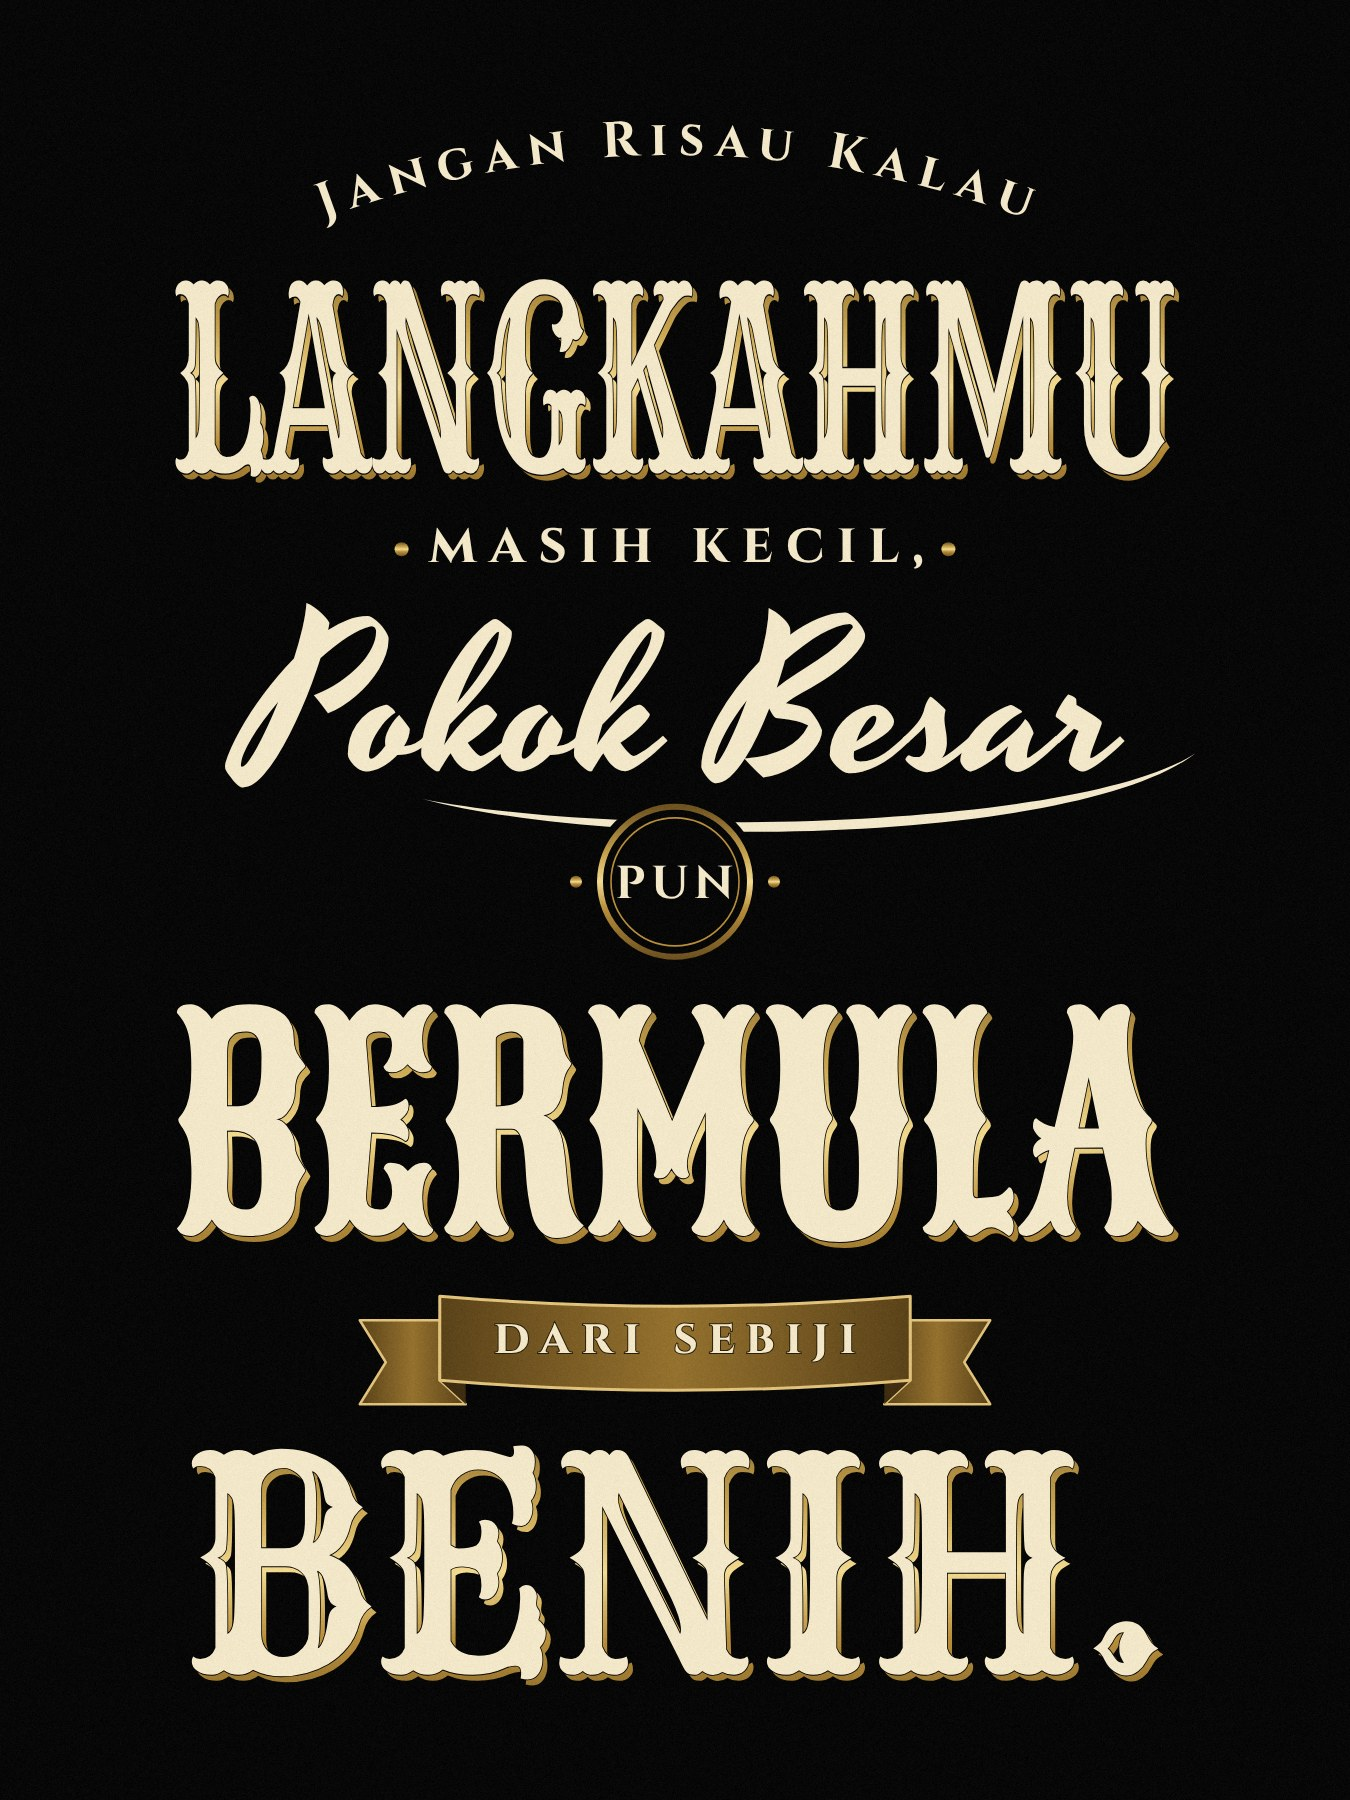
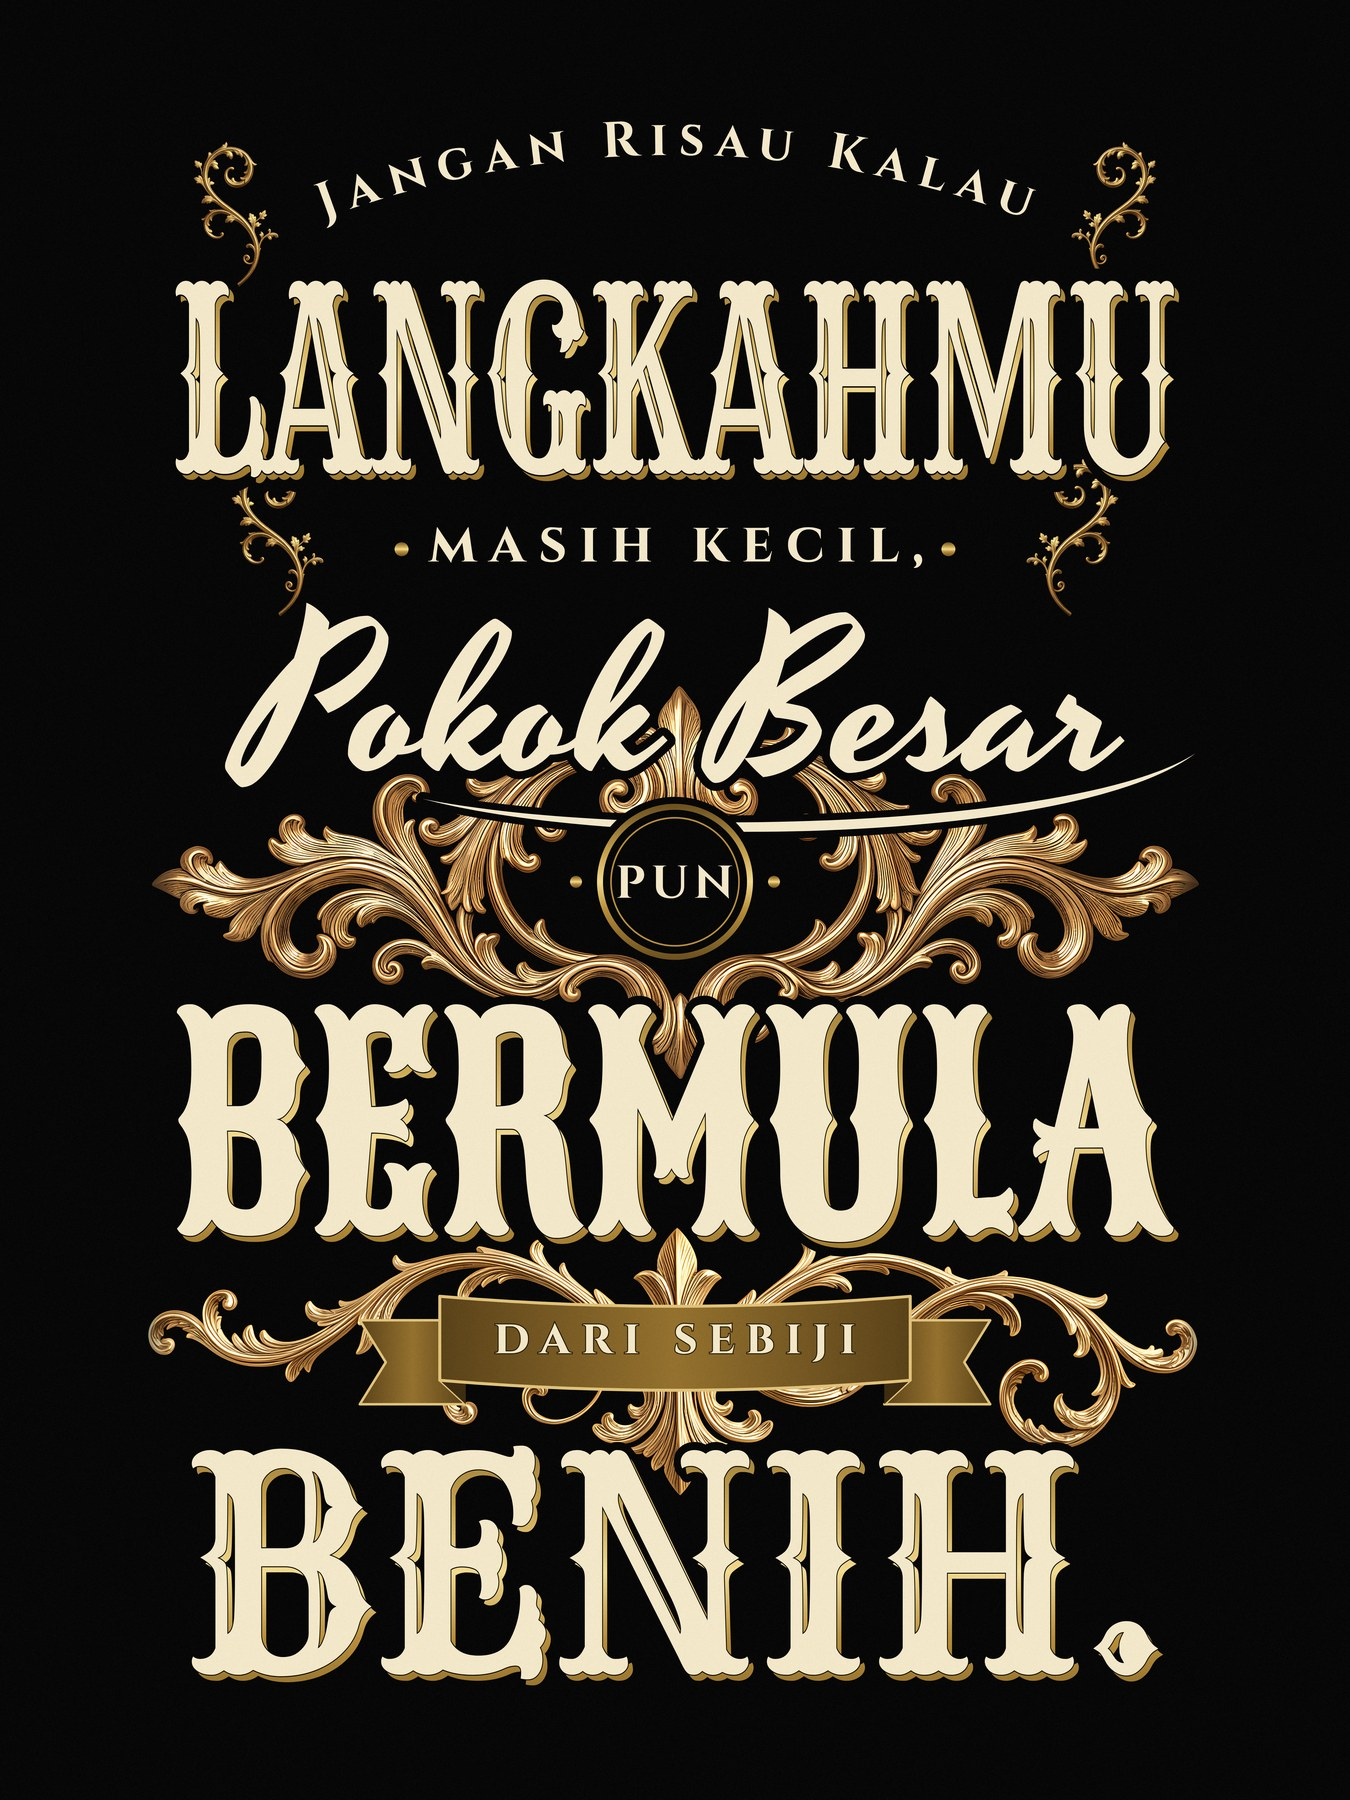
Hybrid test: R4a gold-on-black poster at 5400x7200, QC record
Claude-Session: https://claude.ai/code/session_015DB7PH6jHnSASyPQ7u4gPL

diff --git a/designs/hybrid/layout/r4a.html b/designs/hybrid/layout/r4a.html
@@ -55,8 +55,8 @@ const F = { rye: { fam: 'Rye' }, san: { fam: 'Sancreek' }, yes: { fam: 'Yesterye
   img('gold_curl', CX - b2.m.w / 2 - 50 - cw / 2, mid2 - 8, cw, cw, true);
   img('gold_curl', CX + b2.m.w / 2 + 50 + cw / 2, mid2 - 8, cw, cw, false);
   const arcEndY = arc.top + arc.h - 4, aw = 175;
-  img('gold_curl', CX - arc.m.w / 2 - 10, arcEndY - 30, aw, aw, true);
-  img('gold_curl', CX + arc.m.w / 2 + 10, arcEndY - 30, aw, aw, false);
+  img('gold_curl', CX - arc.m.w / 2 - 75, arcEndY - 10, aw, aw, true);
+  img('gold_curl', CX + arc.m.w / 2 + 75, arcEndY - 10, aw, aw, false);
 
   // Lapisan 2: potongan hitam (knockout) supaya emas tidak menyentuh huruf.
   const ko = el('g', { fill: INK, stroke: INK, 'stroke-linejoin': 'round' });
